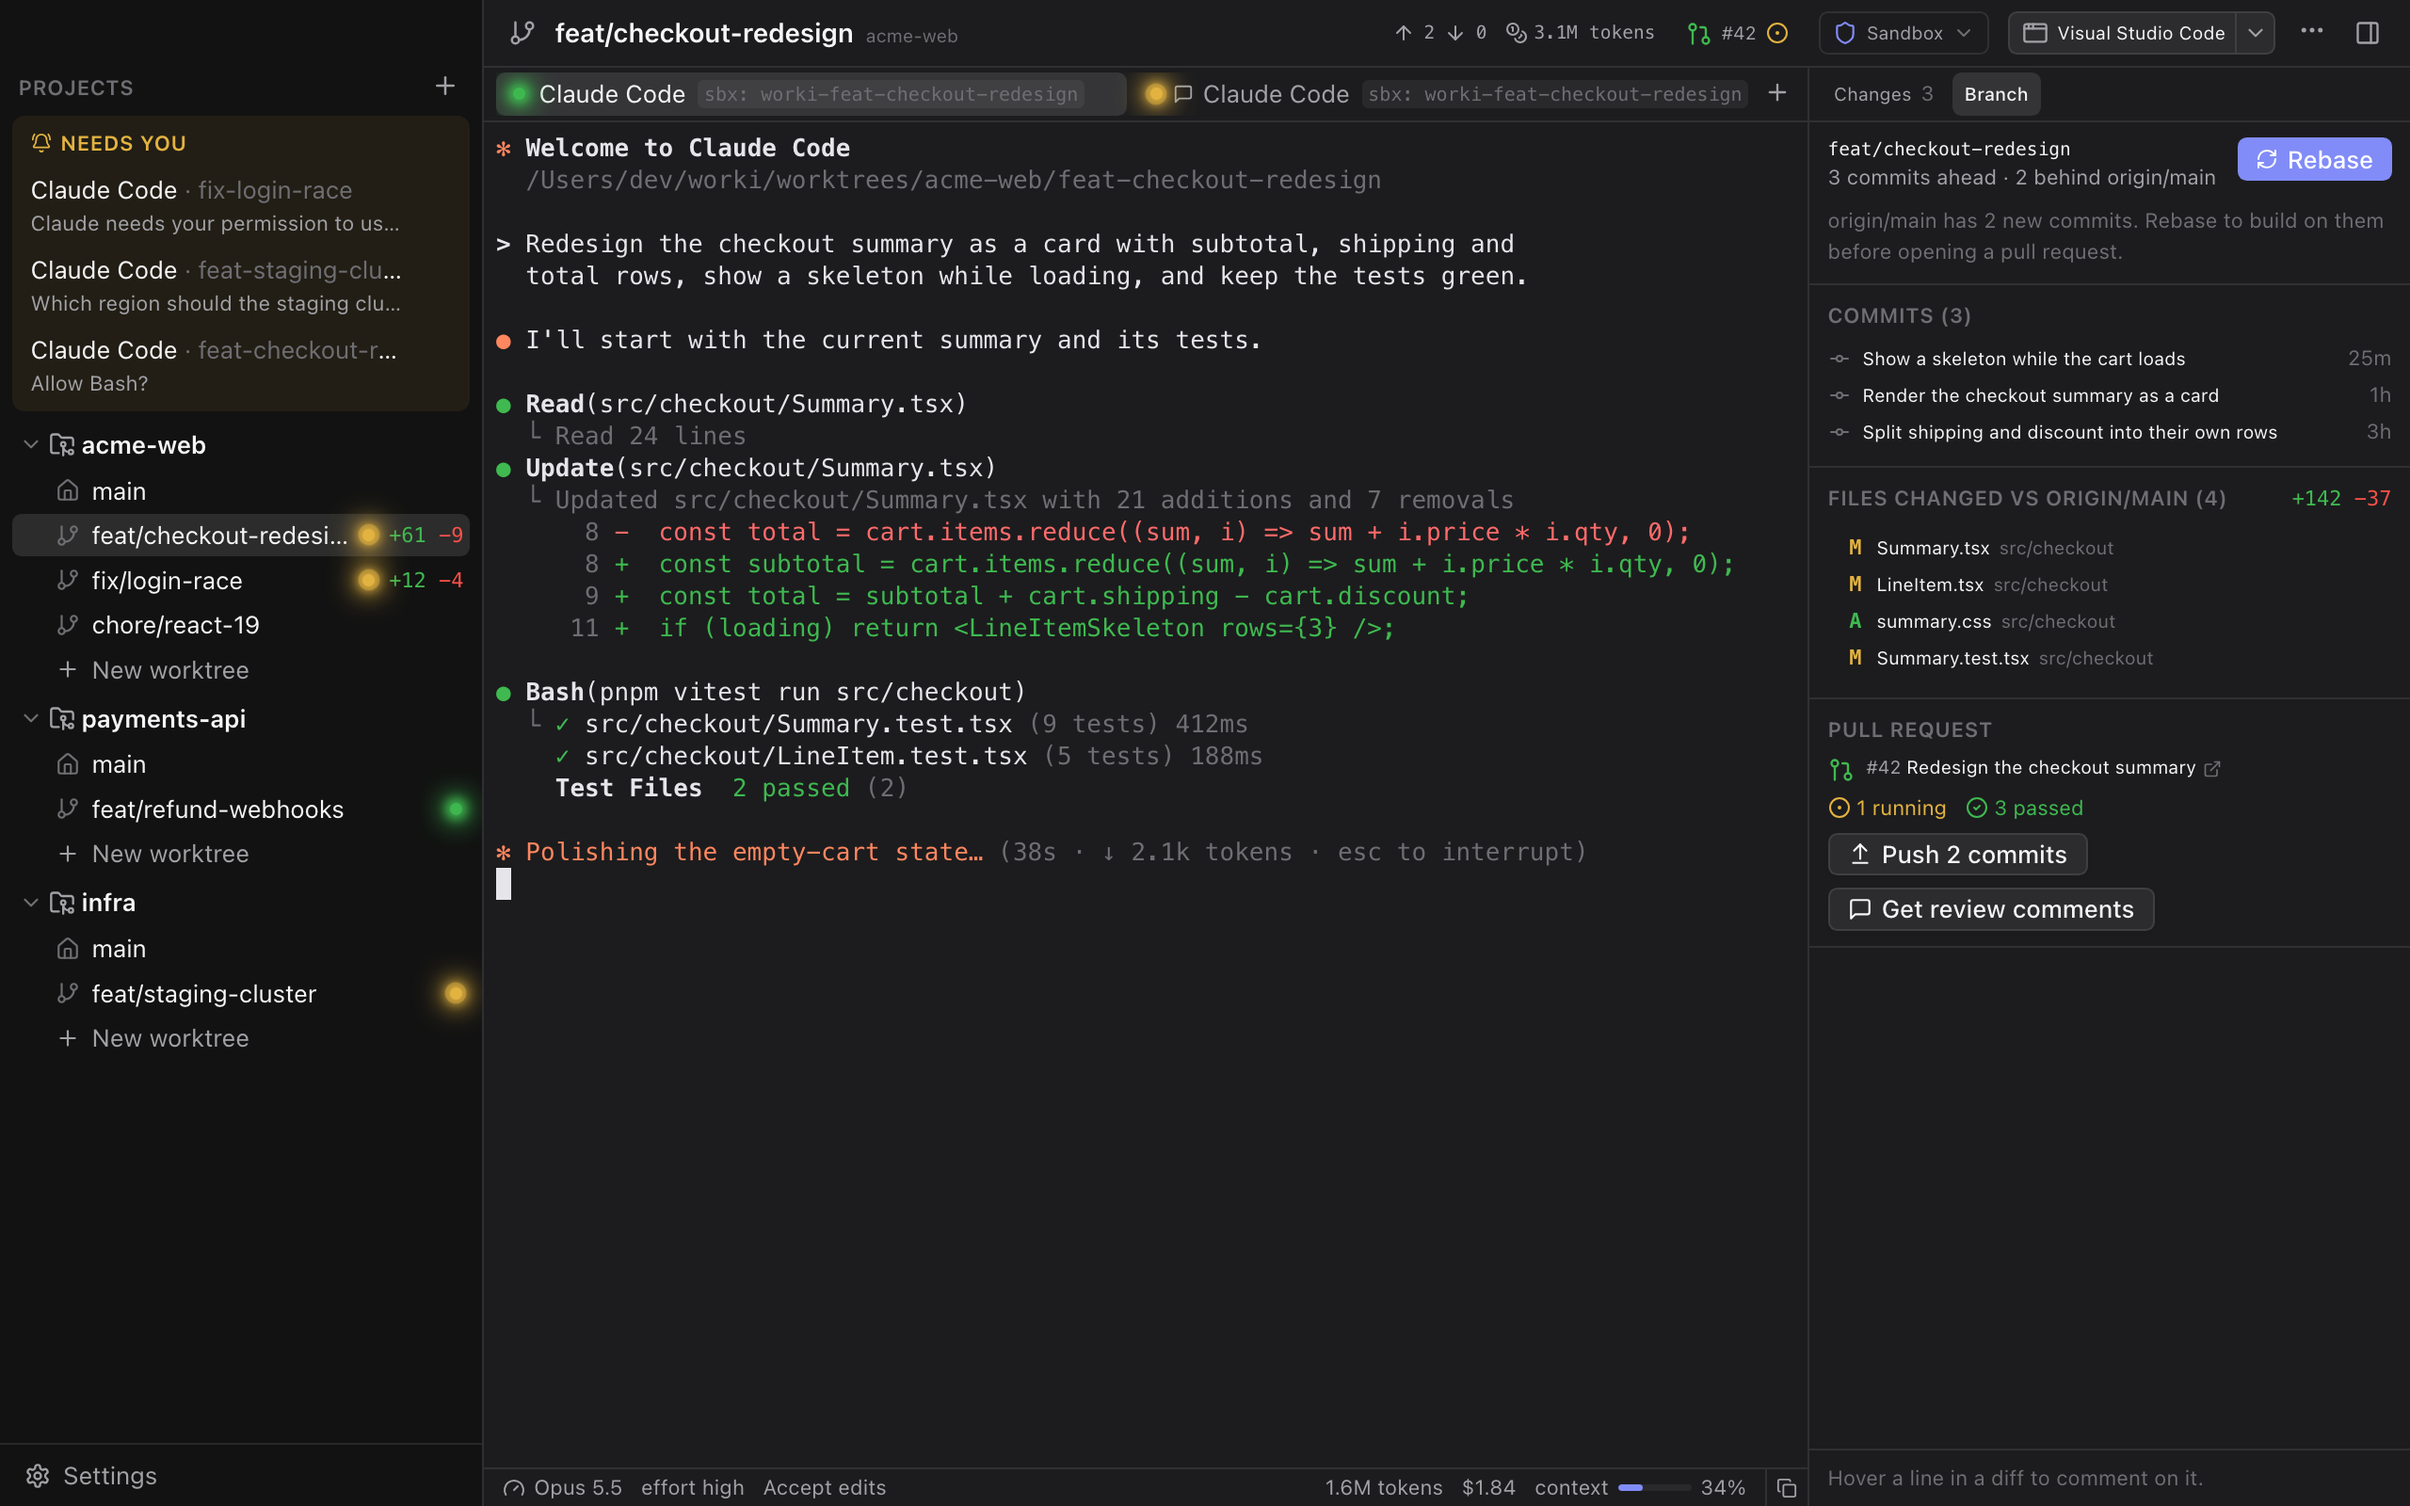
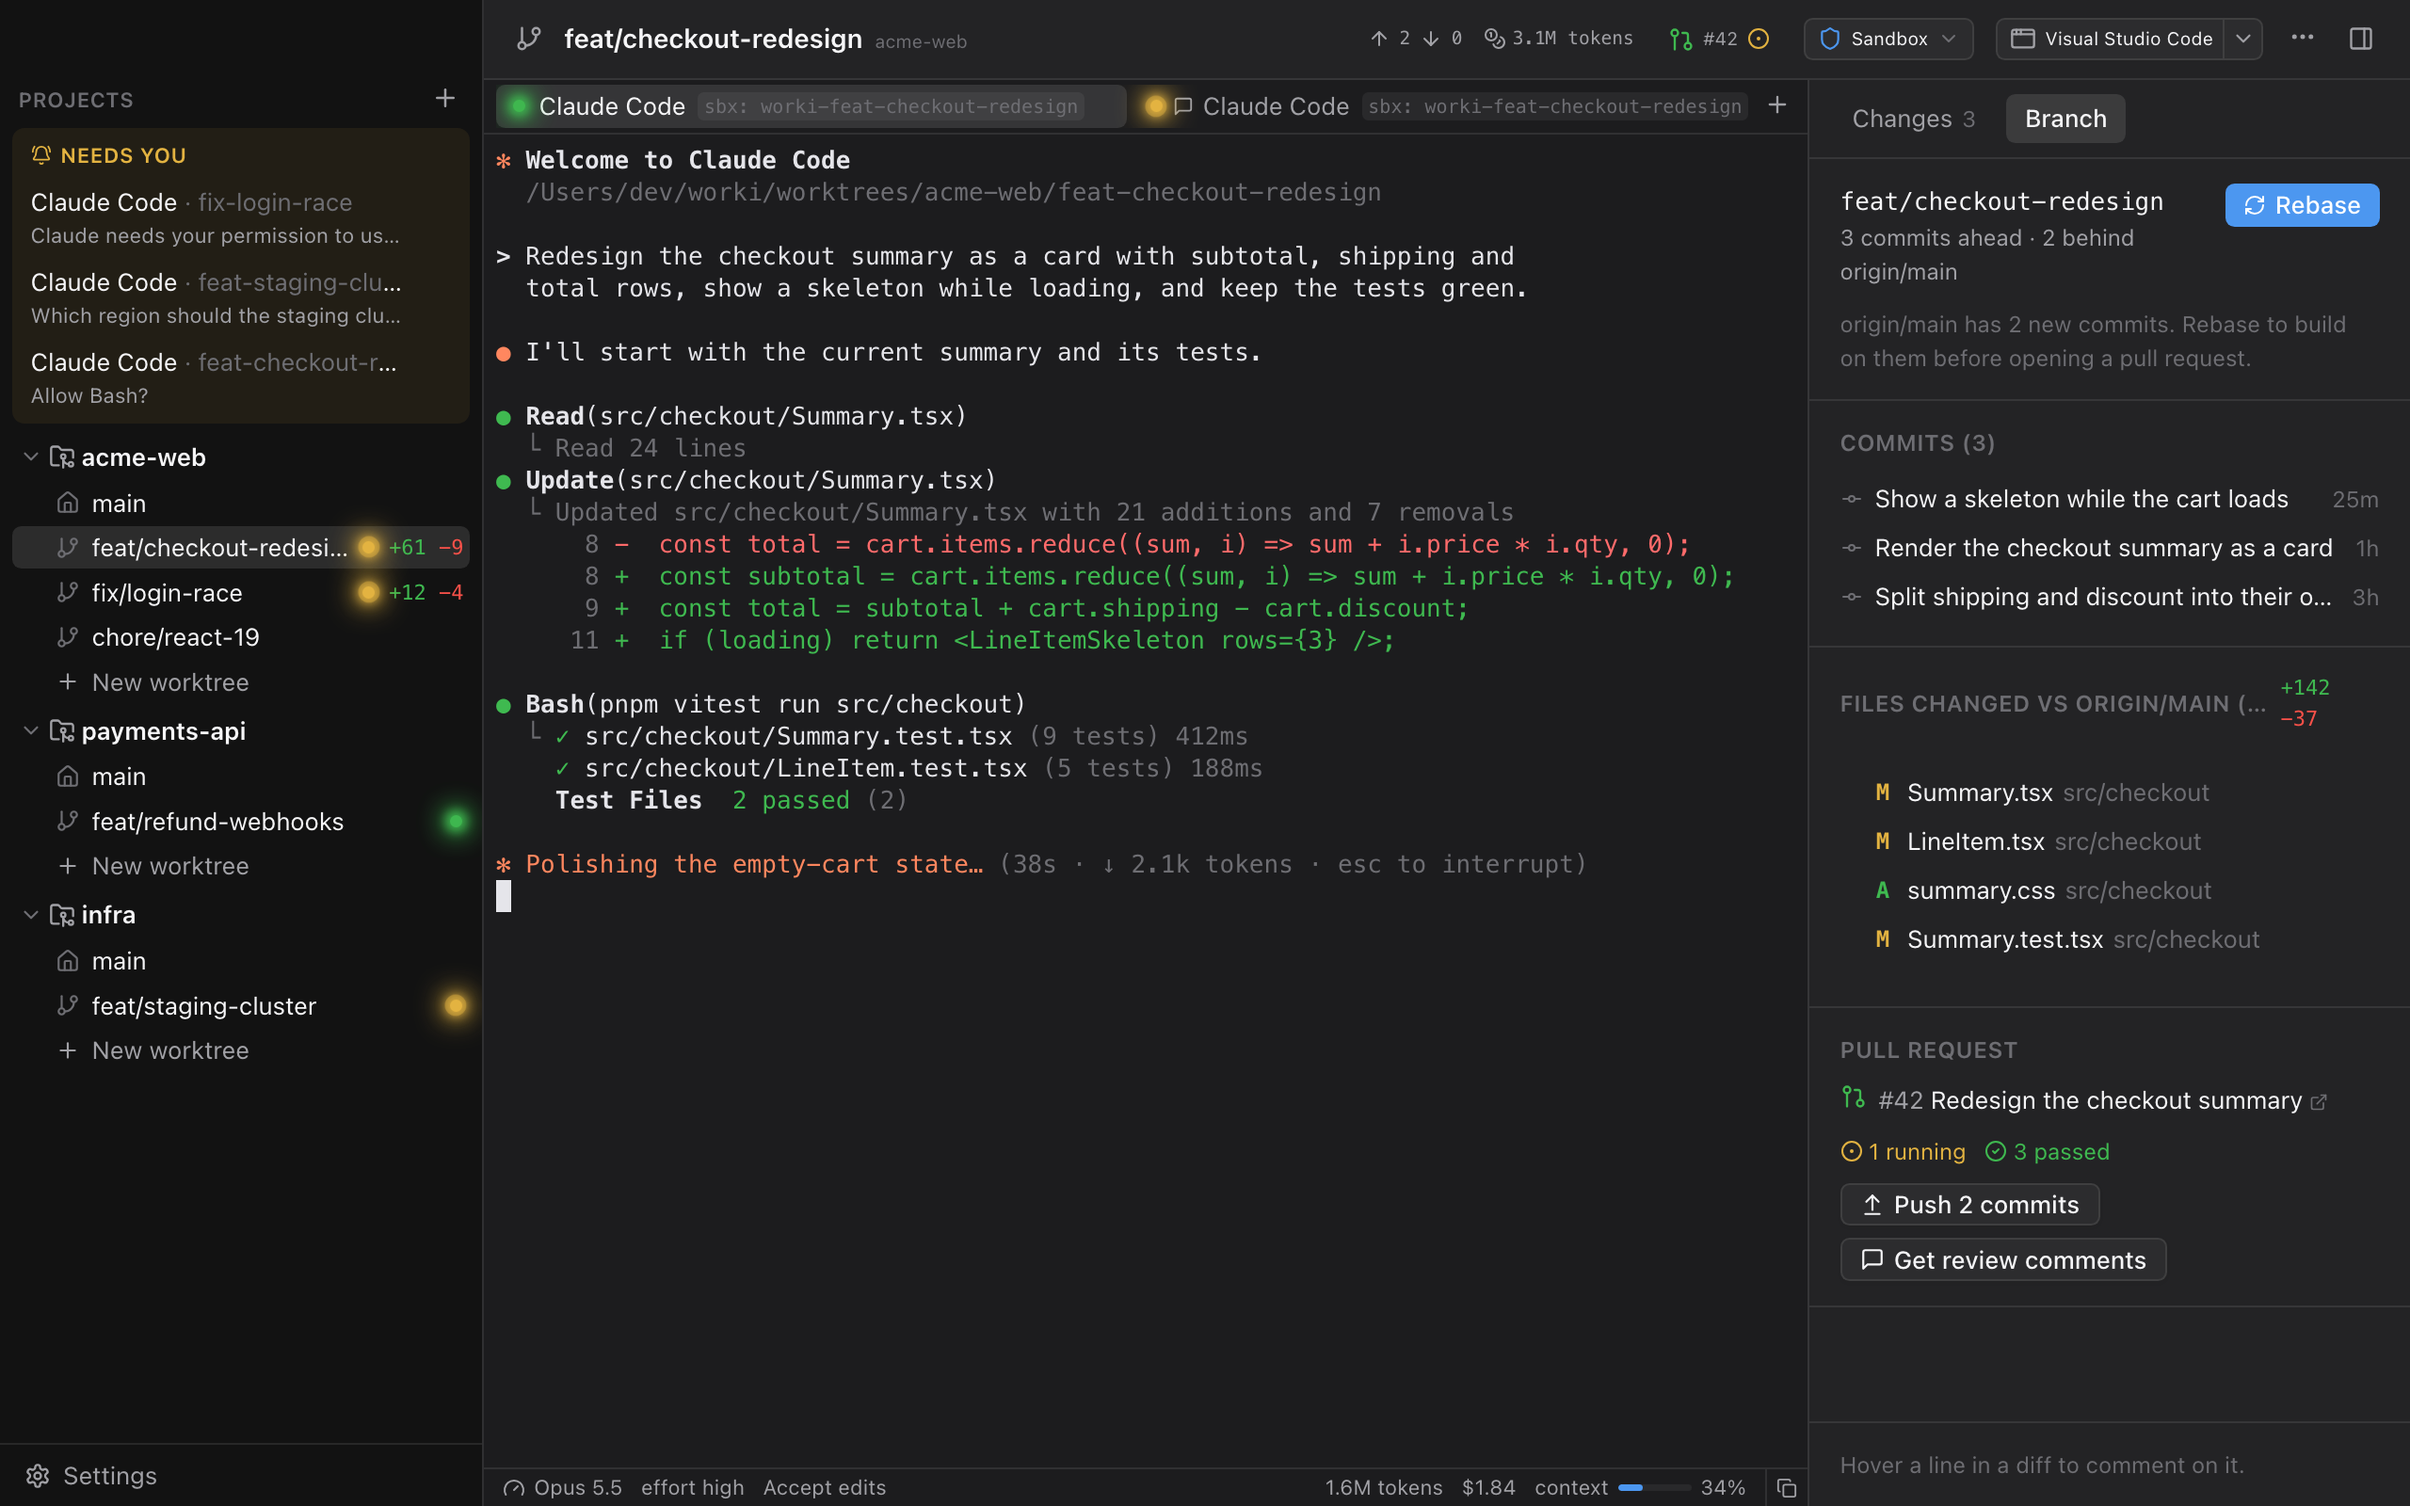
Refresh the README screenshots and add one of the terminal
The screenshots show the new spacing and font sizes. A new terminal scene
shows Claude Code in its terminal at full width, next to the chat one.

diff --git a/ui/src/demo/main.tsx b/ui/src/demo/main.tsx
@@ -426,7 +426,7 @@ const ui = {
   selectedProjectId: "acme-web",
   selectedWorktreePath: checkout,
   collapsed: {},
-  showChanges: true,
+  showChanges: scene !== "terminal",
   changesScope: scene === "branch" ? "branch" : "uncommitted",
   panelWidths: { sidebar: 256, diff: 520, changes: 320 },
   theme: "dark",

diff --git a/README.md b/README.md
@@ -86,6 +86,10 @@ Run Claude Code in its terminal, or as a chat that worki draws itself:
   match worki's theme, open full-window with zoom, and save as SVG, PNG or HTML.
 - **Picks up where you left off.** Chats reopen with their history when worki starts.
 
+<p align="center">
+  <img src="docs/screenshots/terminal.png" alt="Claude Code in its terminal, running the tests in a Docker Sandbox" width="900">
+</p>
+
 Choose the default under Settings › General; the **+** menu offers both. Codex runs in a terminal
 for now.
 
